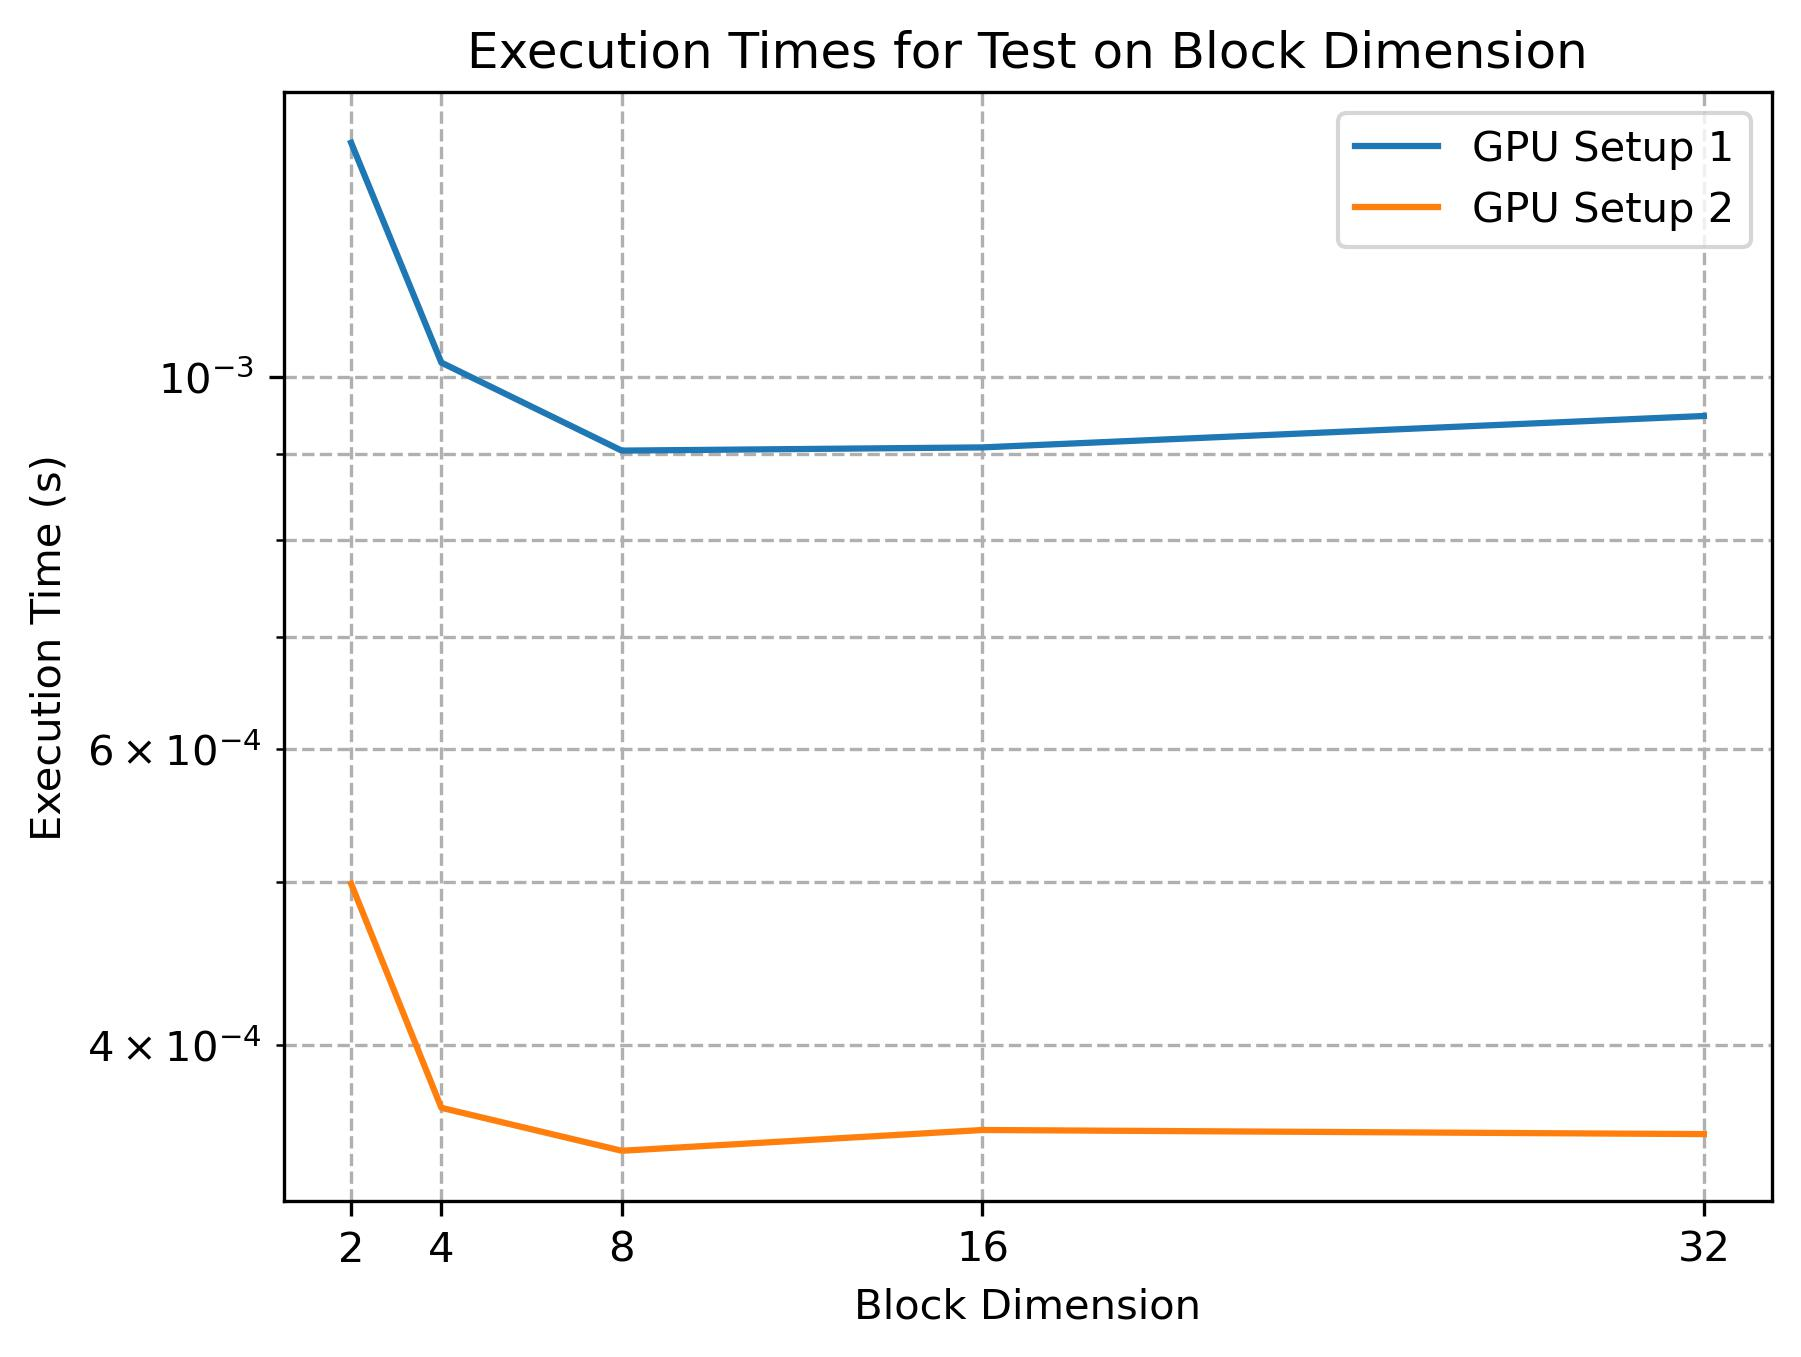
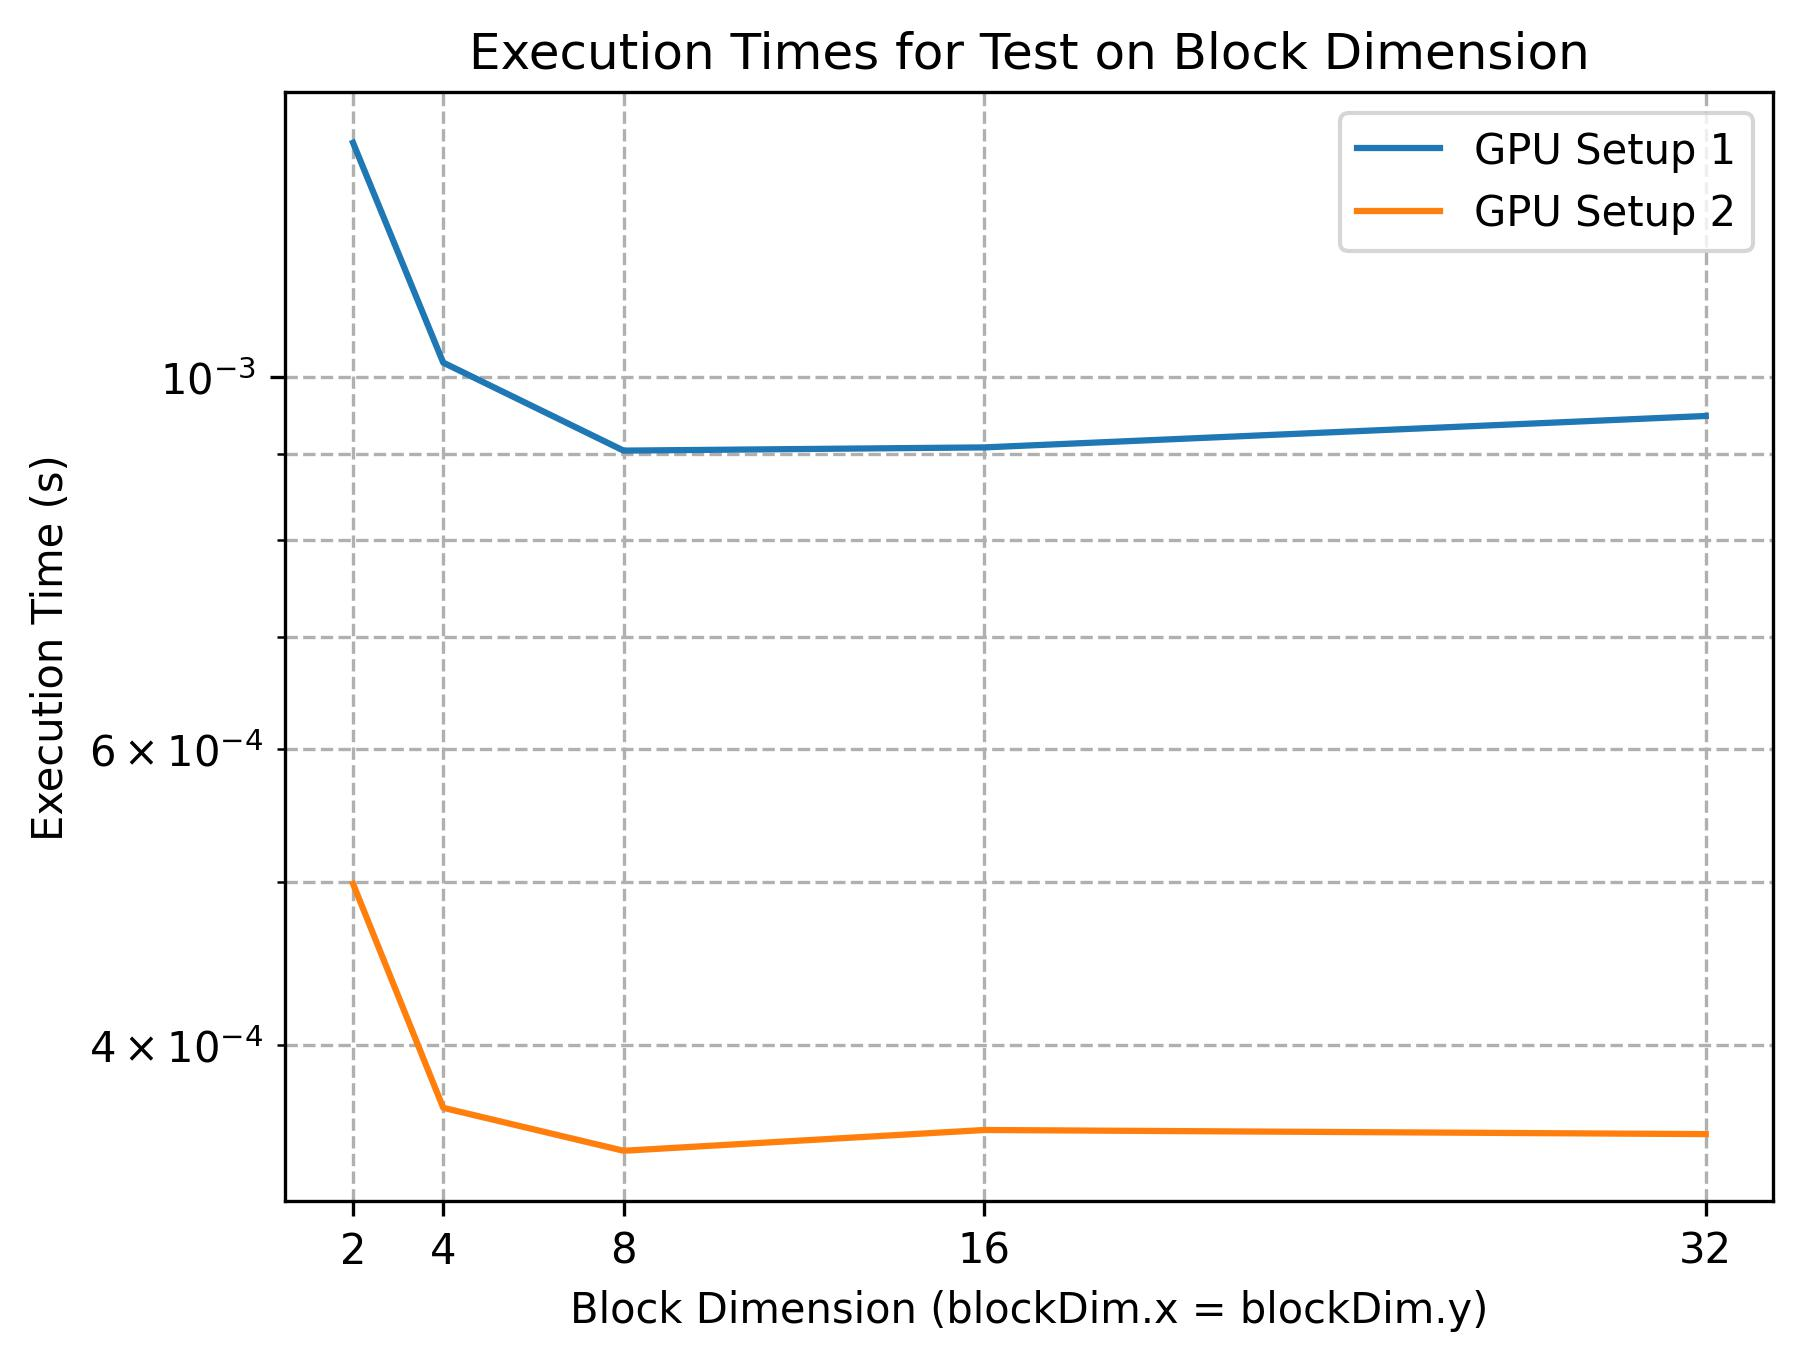
plots

diff --git a/plot_script/blockDim.py b/plot_script/blockDim.py
@@ -25,7 +25,7 @@ plt.plot([2, 4, 8, 16, 32], gpu_times1, label='GPU Setup 1')
 plt.plot([2, 4, 8, 16, 32], gpu_times2, label='GPU Setup 2')
 
 # Adding labels and title
-plt.xlabel('Block Dimension')
+plt.xlabel('Block Dimension (blockDim.x = blockDim.y)')
 plt.ylabel('Execution Time (s)')
 plt.title('Execution Times for Test on Block Dimension')
 
